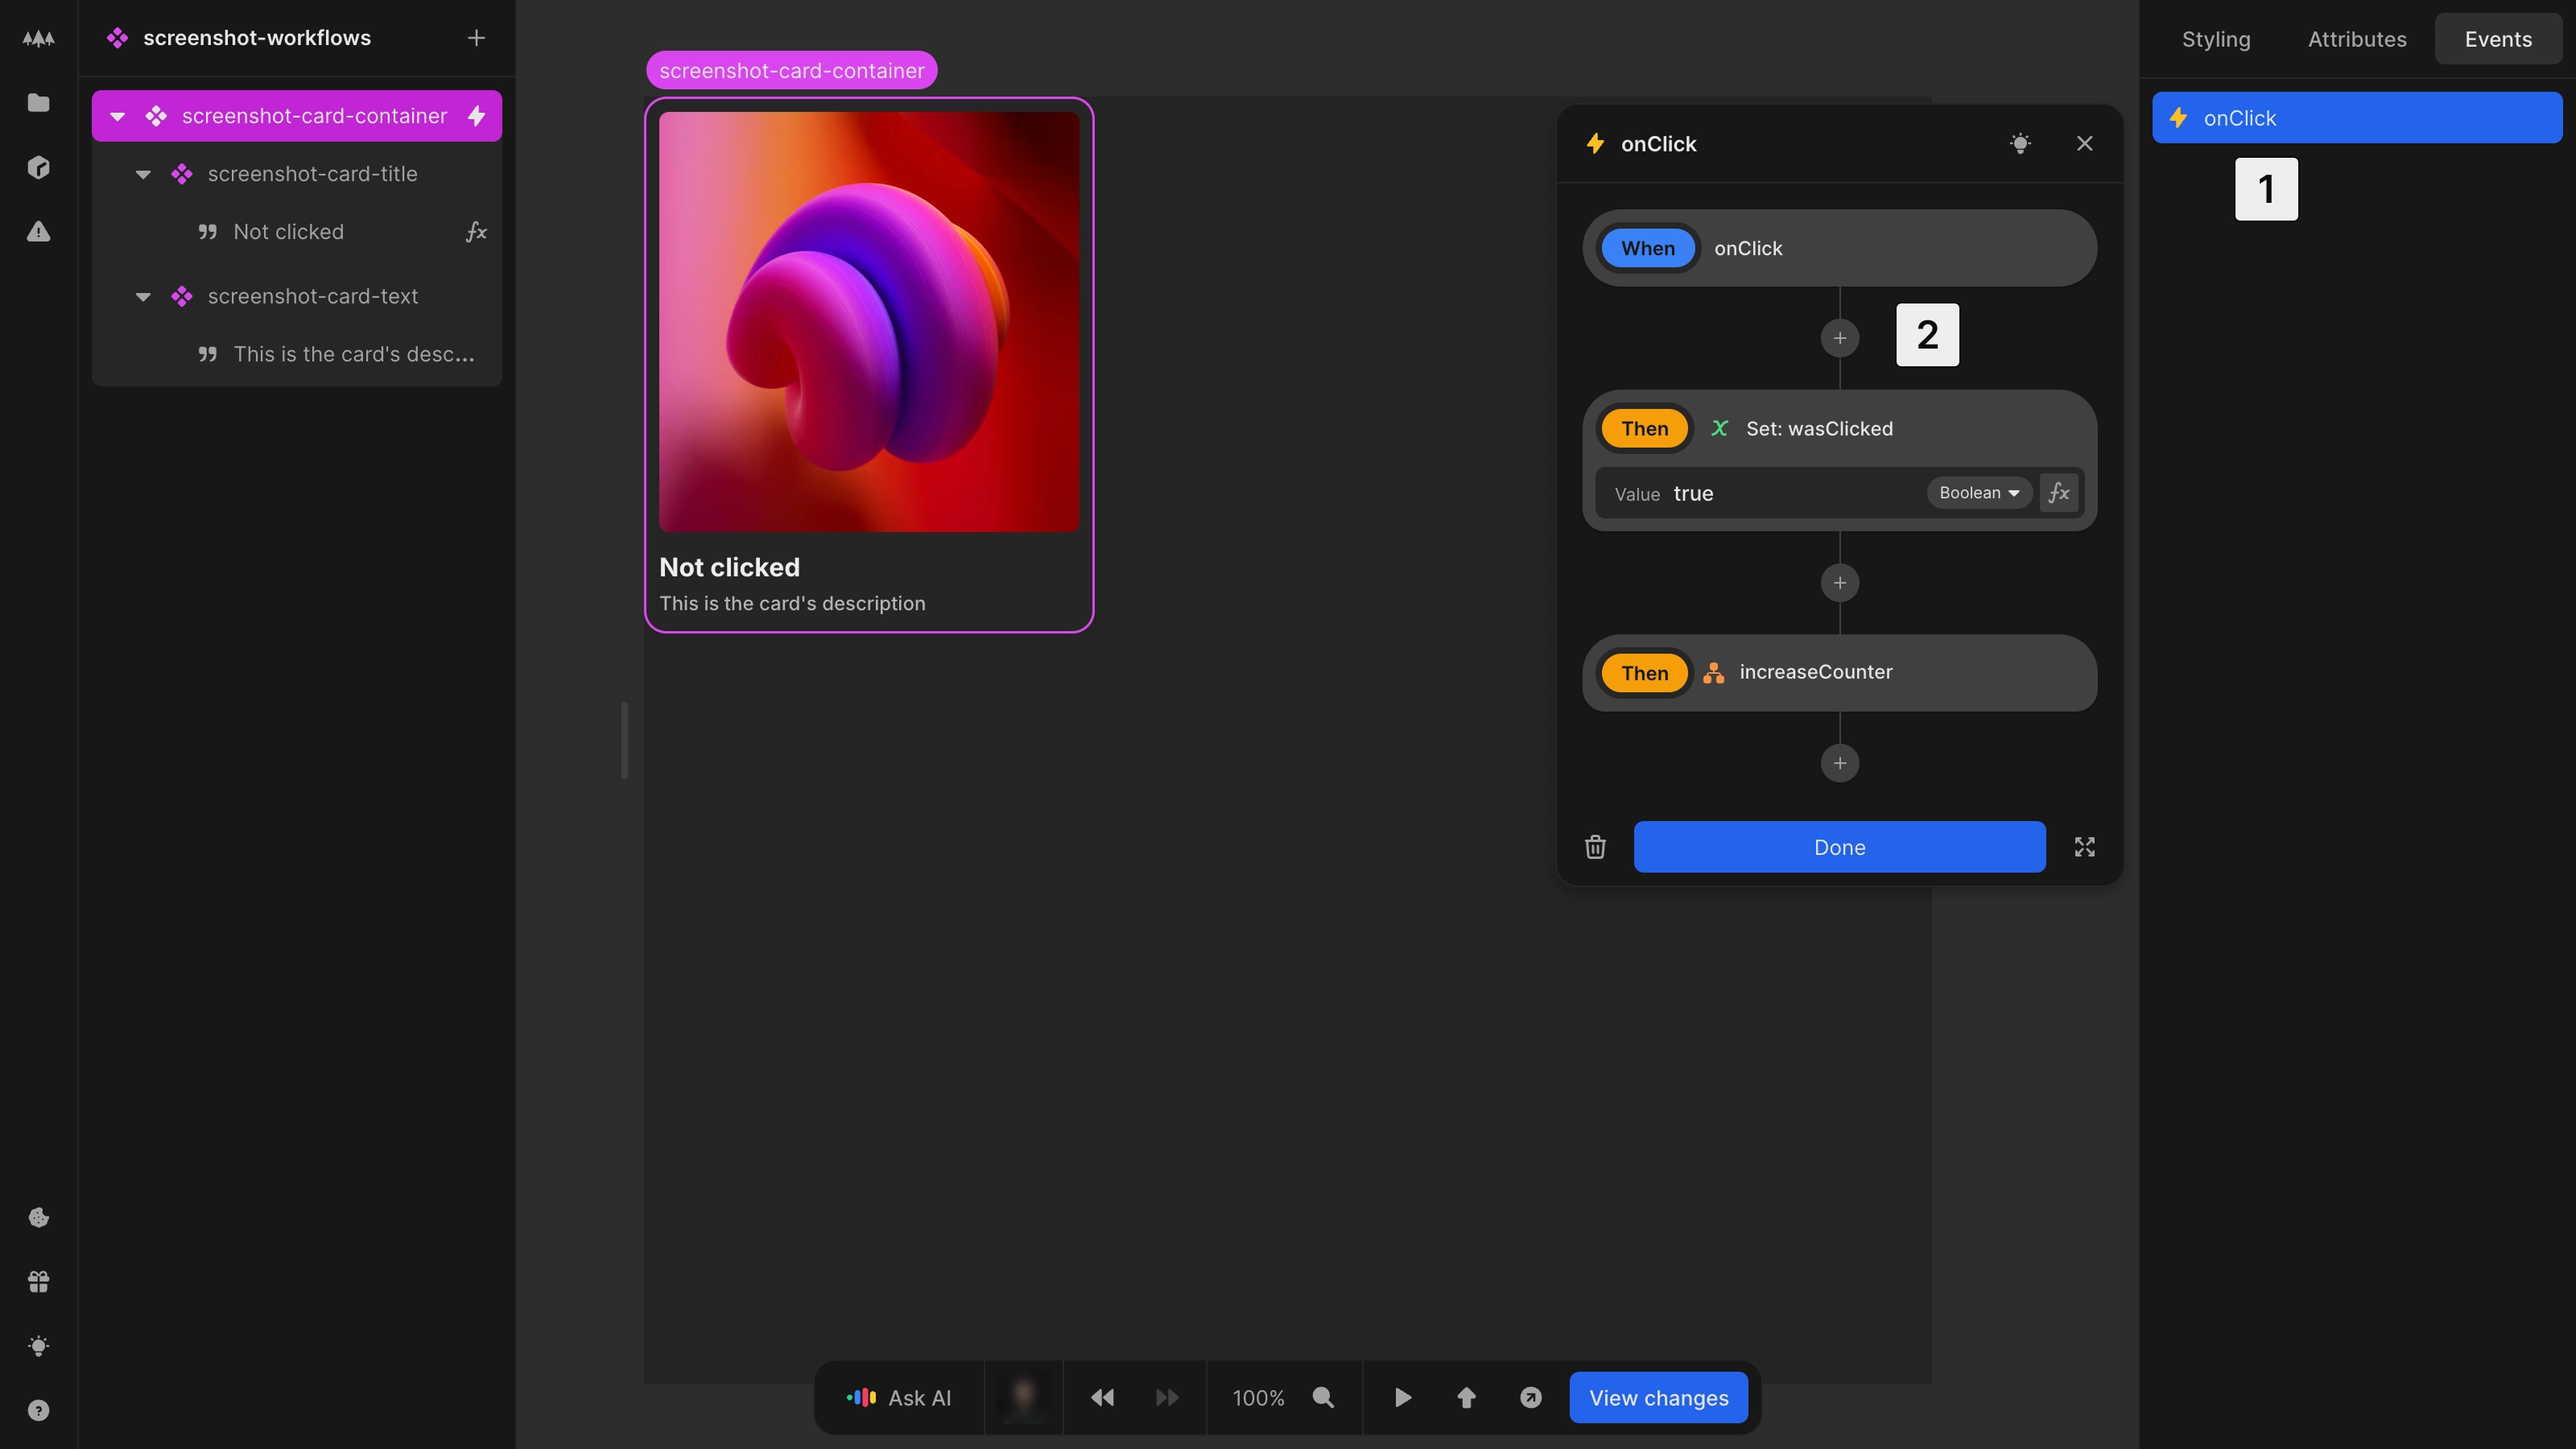
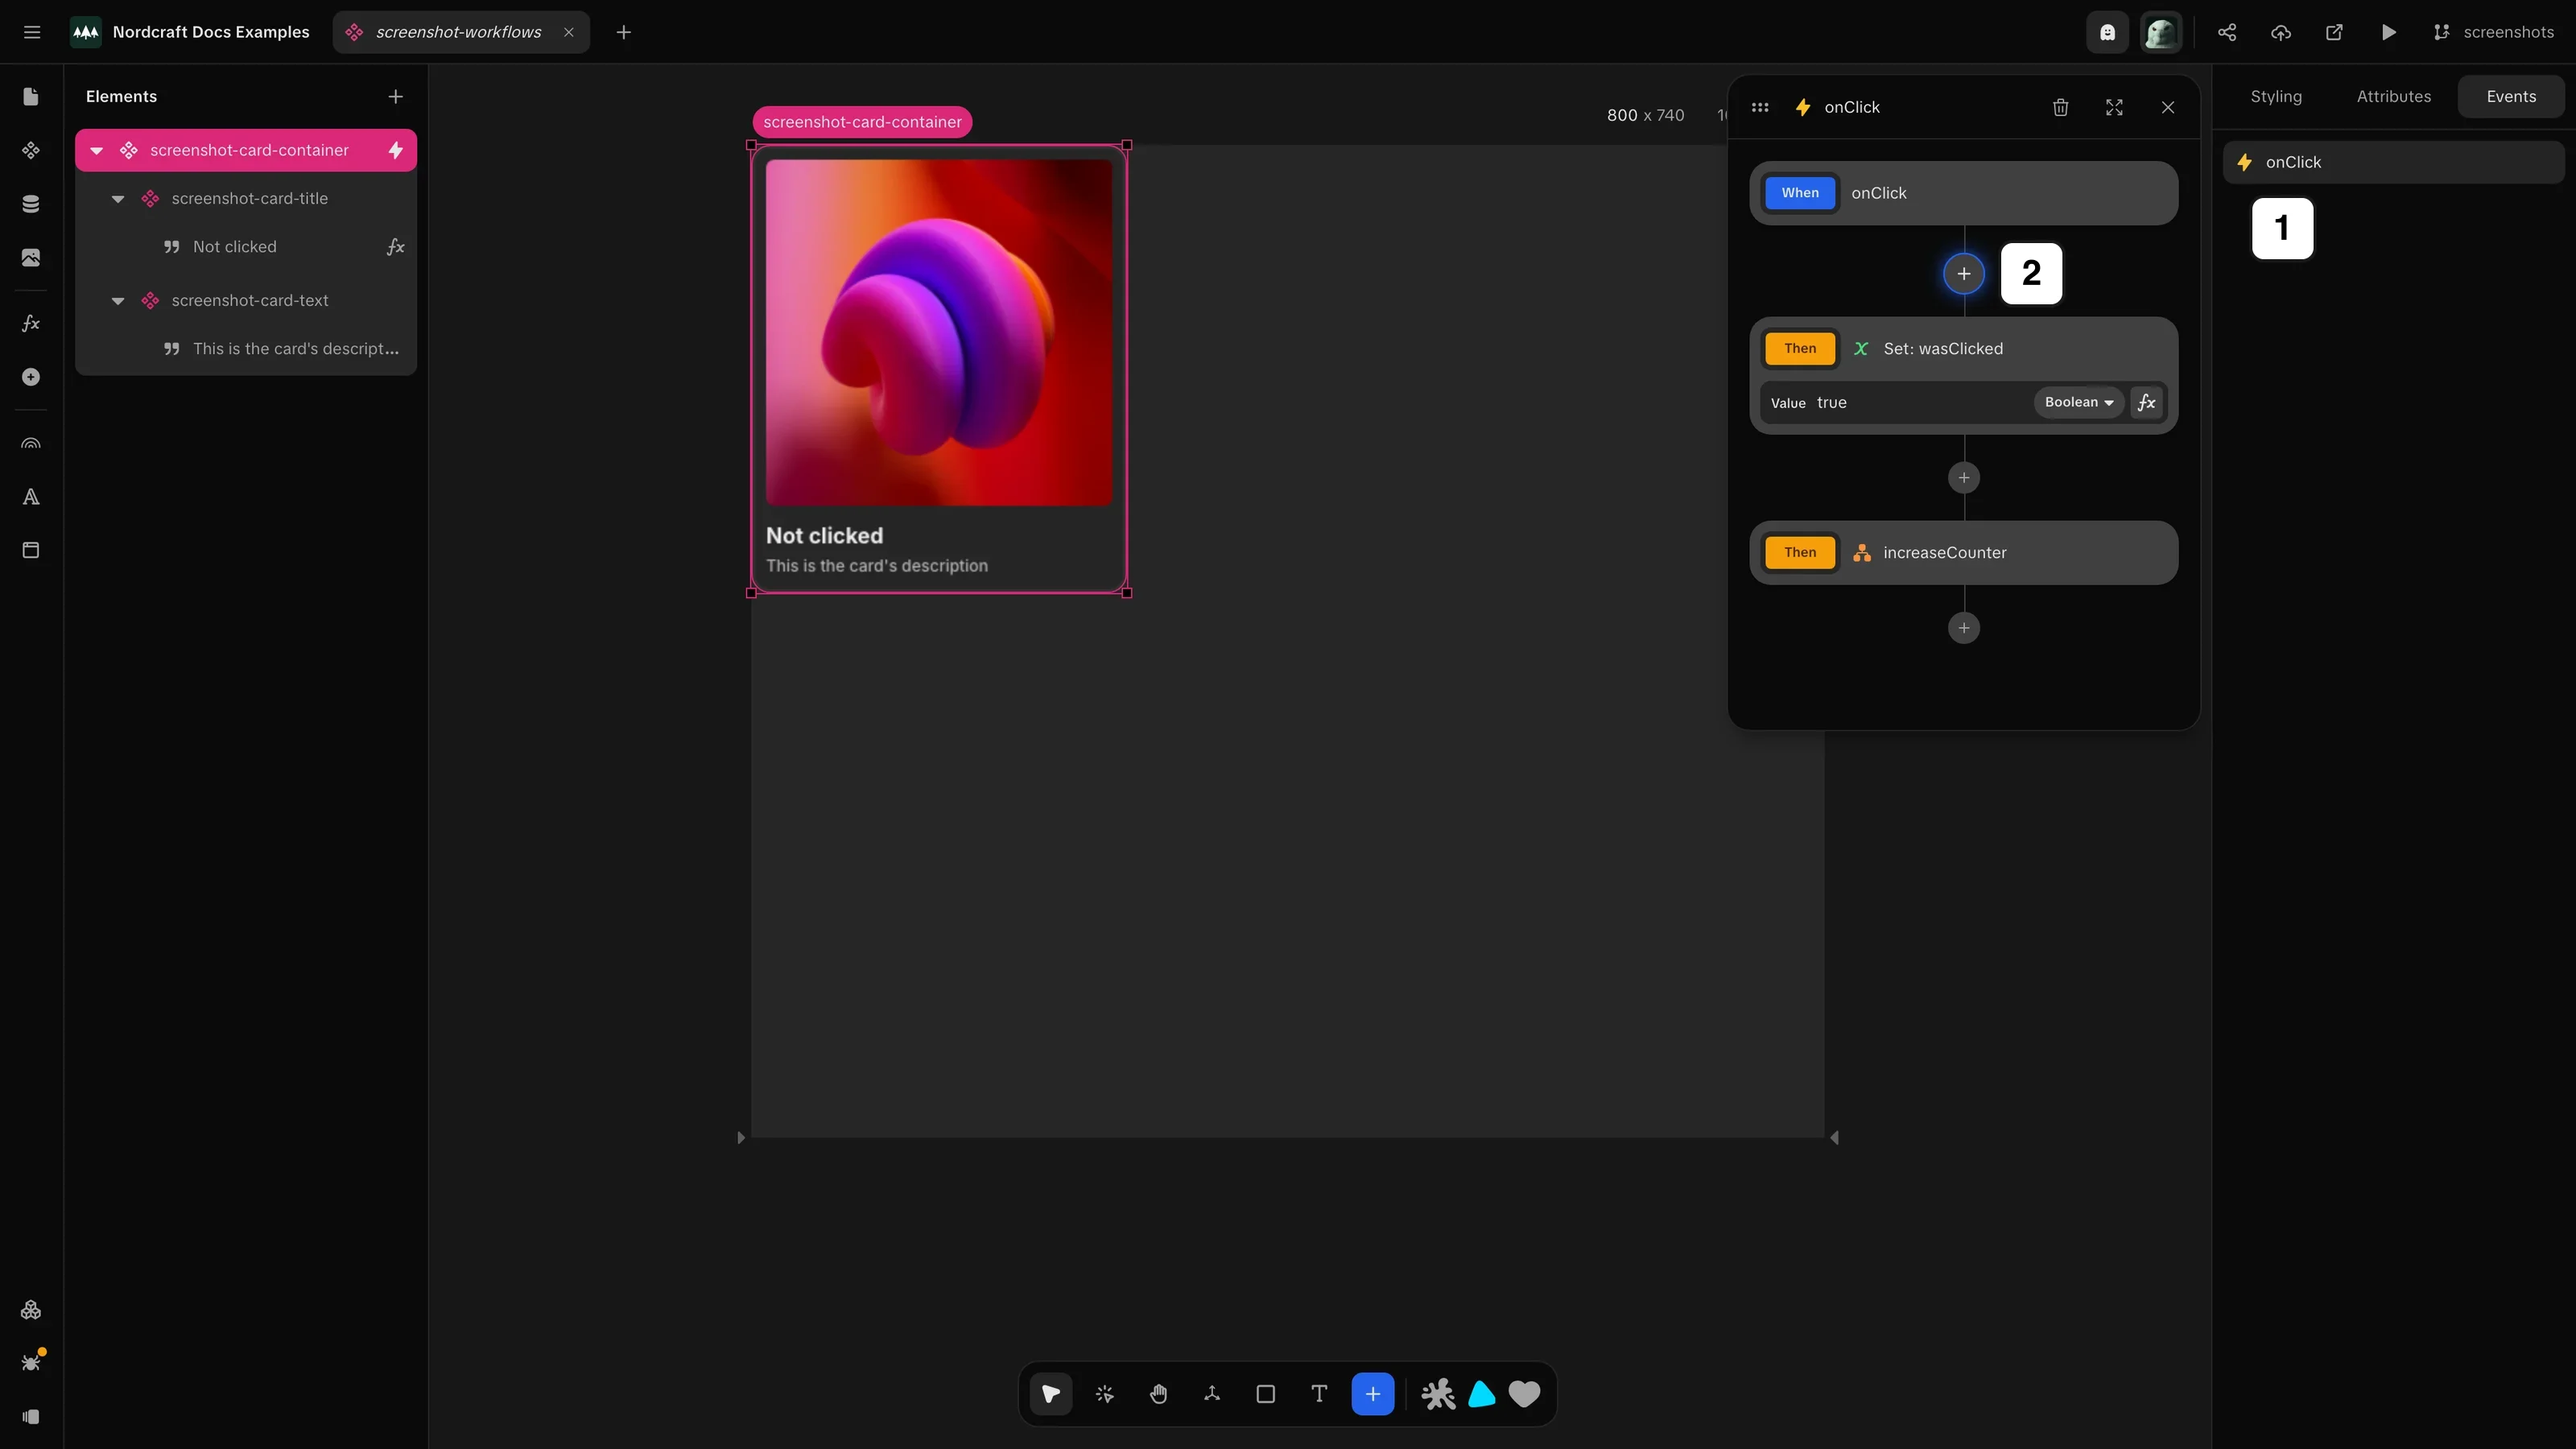
workflow on event

diff --git a/docs/workflows/working-with-workflows/create-workflow-on-event.screenshot.ts b/docs/workflows/working-with-workflows/create-workflow-on-event.screenshot.ts
@@ -1,0 +1,24 @@
+import { defineScreenshot } from '@/scripts/capture-screenshots'
+import type { Page } from 'playwright'
+
+// Placeholder script for create-workflow-on-event.webp
+export default defineScreenshot({
+  path: '/projects/docs_examples/branches/screenshots/components/screenshot-workflows?mode=design&canvas-tool=select&canvas-width=800&selection=nodes.root.events.onClick&rightpanel=events',
+  setup: async (page: Page) => {
+    await page.waitForTimeout(500)
+  },
+  annotations: [
+    {
+      type: 'badge',
+      x: 699,
+      y: 61,
+      text: '1'
+    },
+    {
+      type: 'badge',
+      x: 621,
+      y: 75,
+      text: '2'
+    }
+  ],
+})
